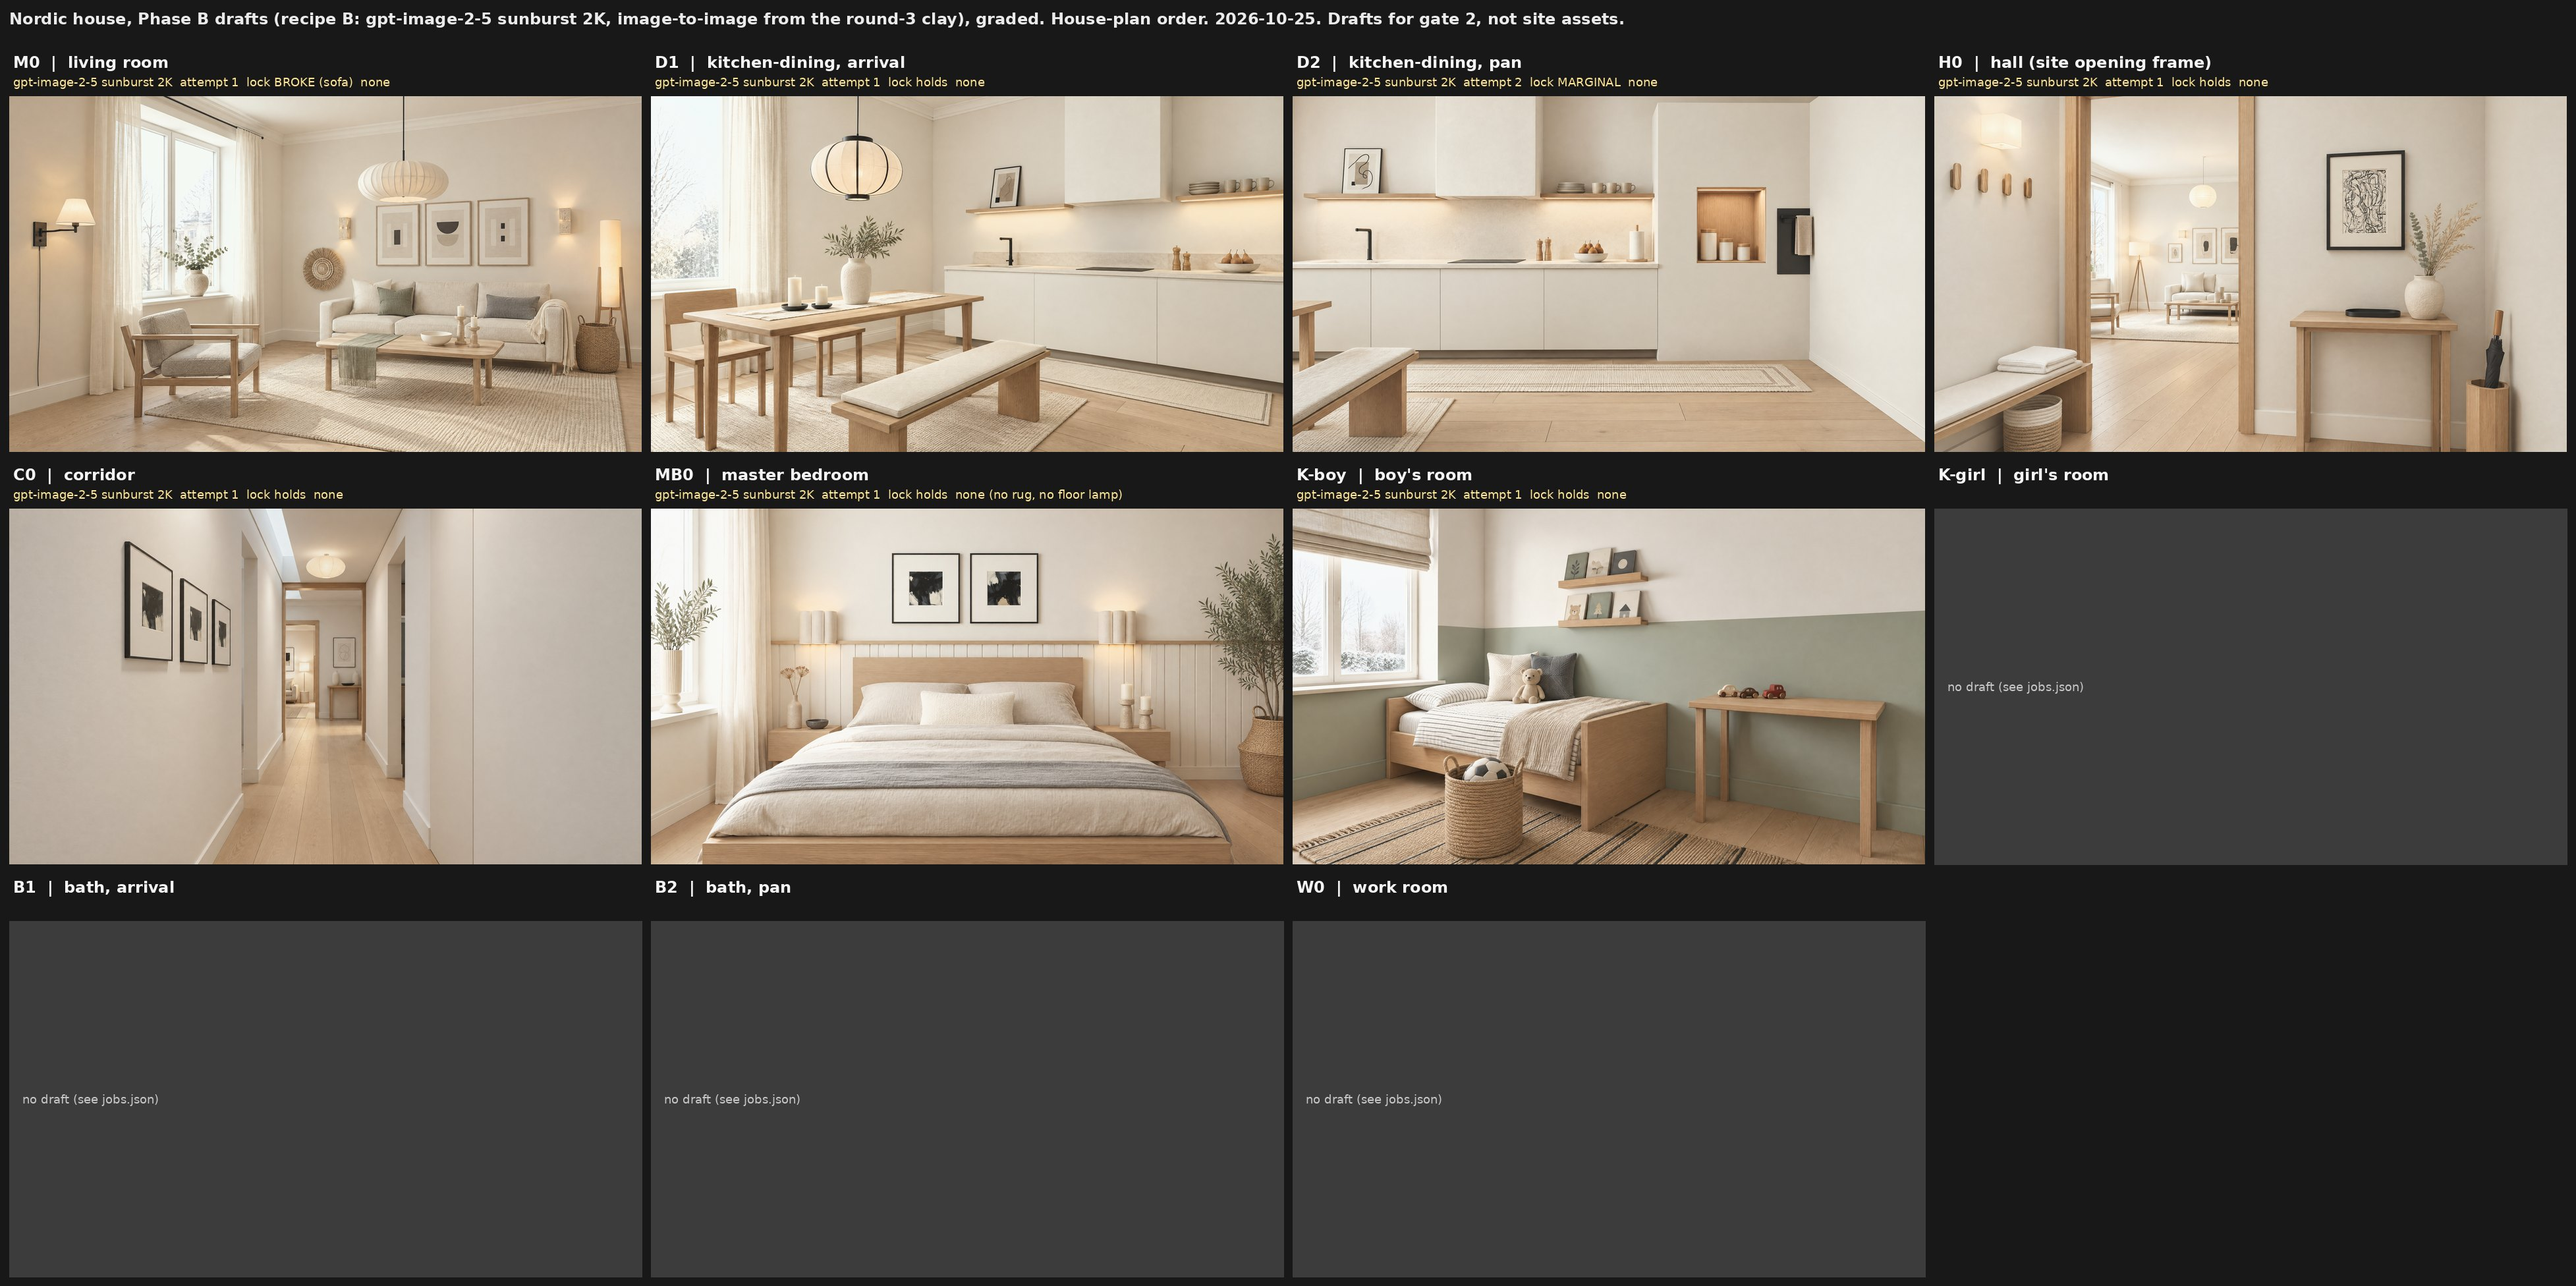
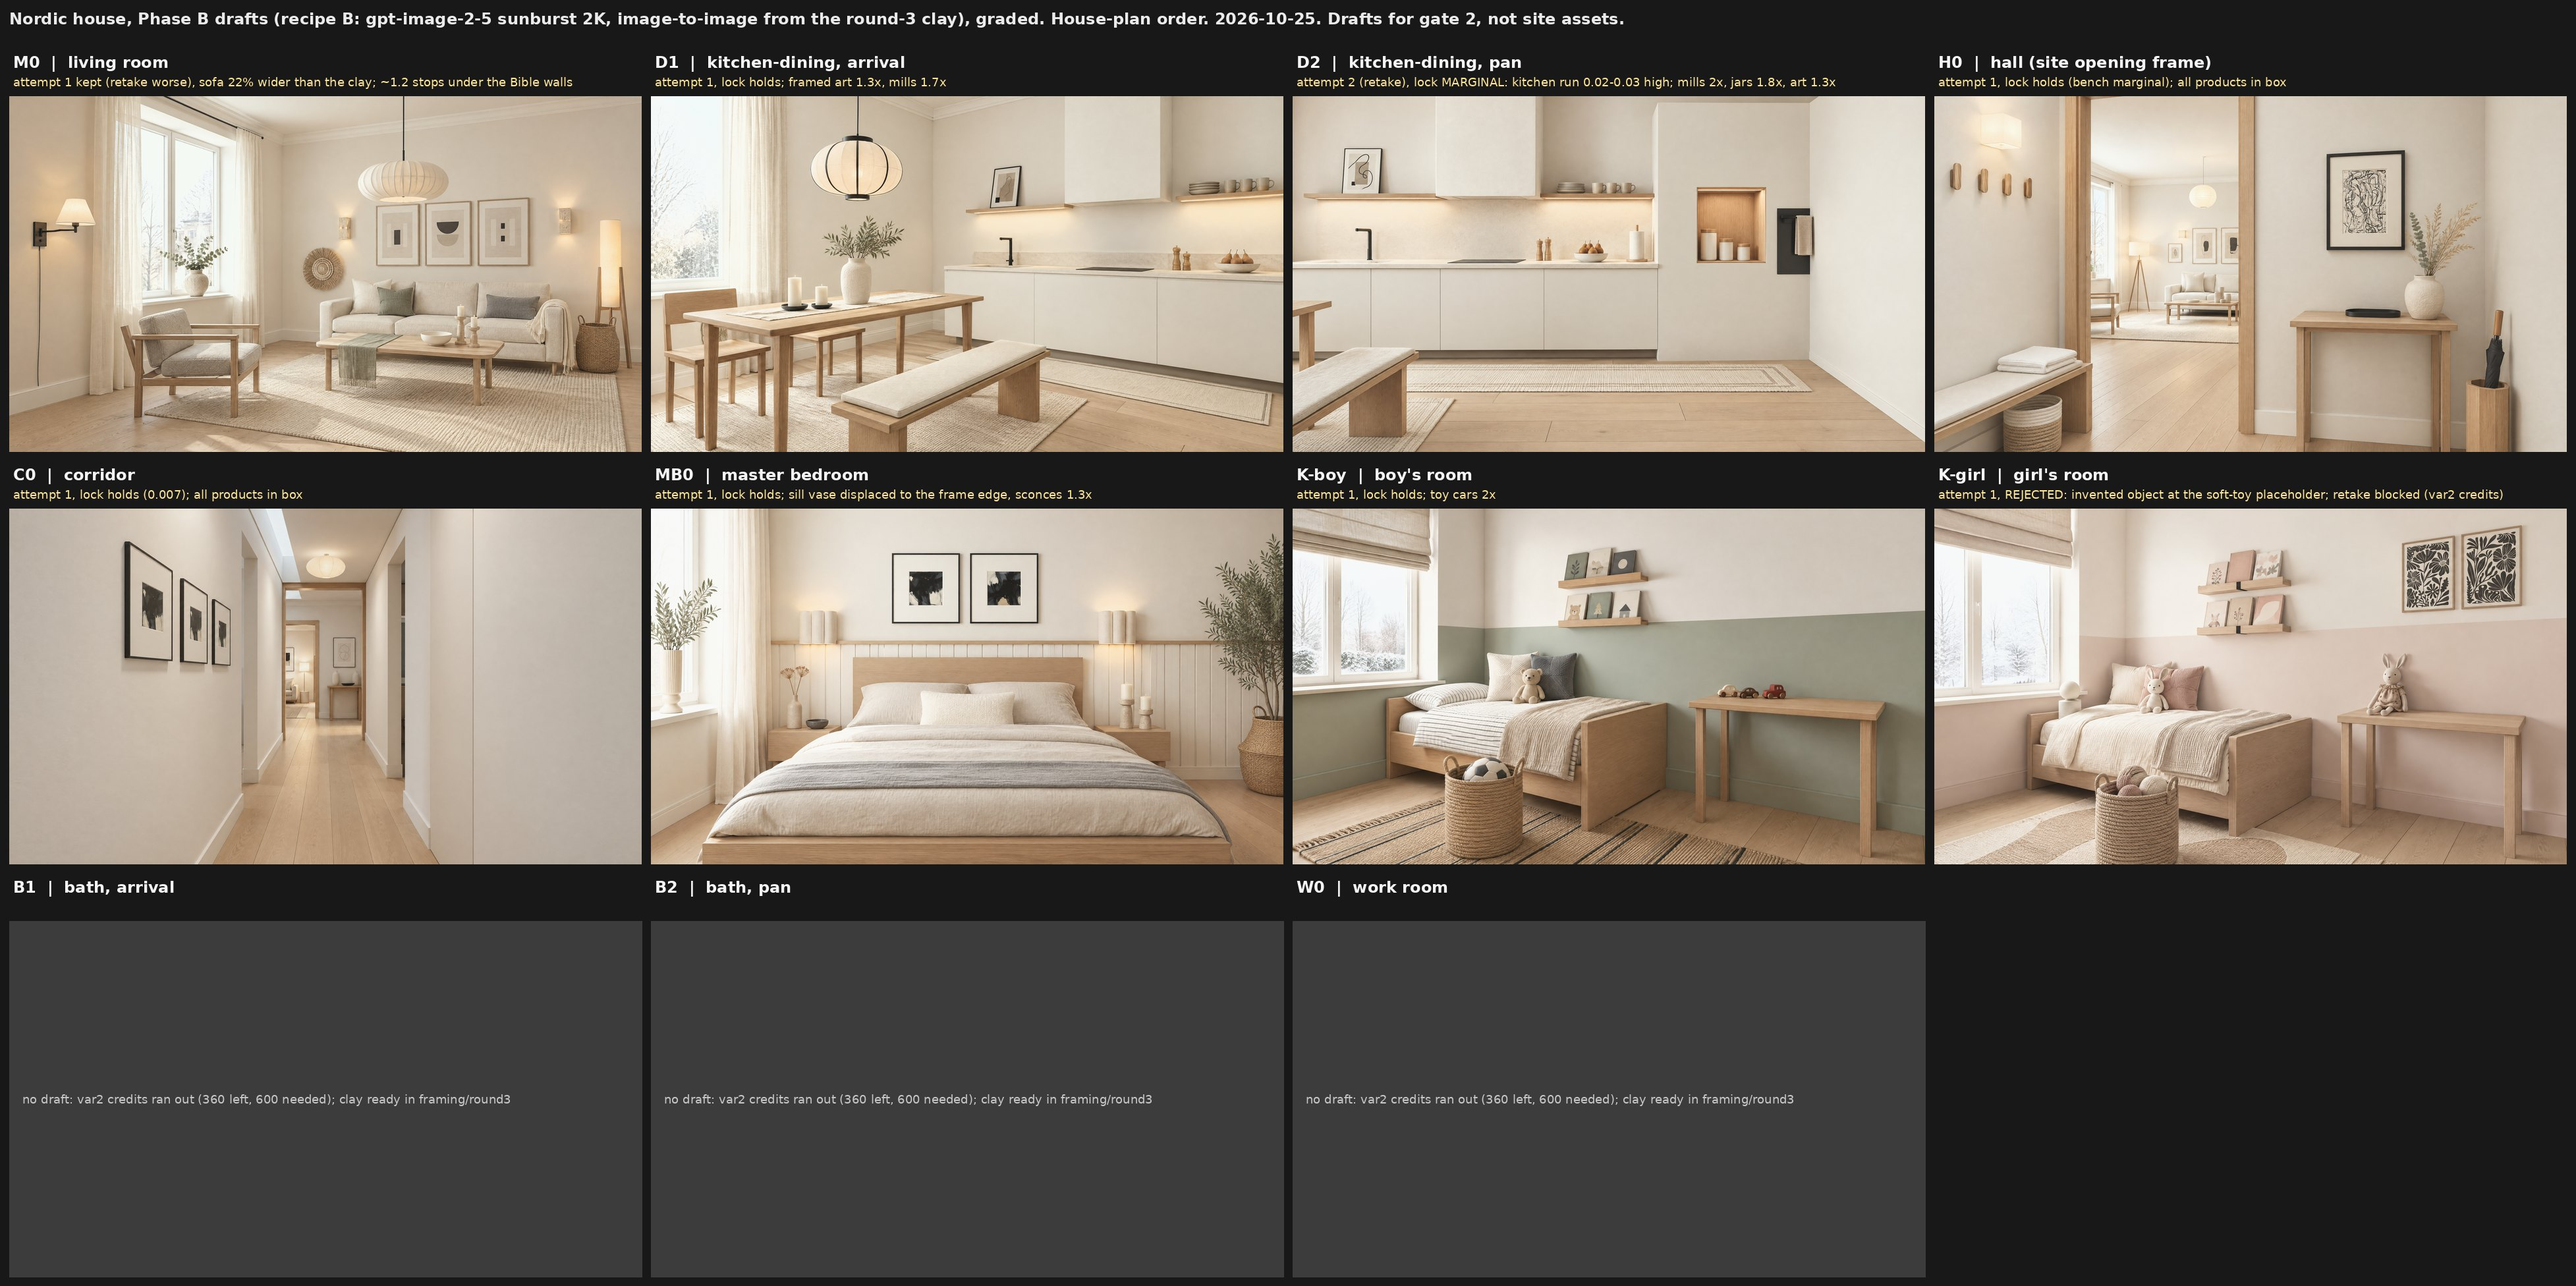
Phase B in progress: next completed drafts
Claude-Session: https://claude.ai/code/session_012un7iEDRha5J5s2Ea72wCe

diff --git a/assets/renders/house-nordic-2026-10-25/sheet.py b/assets/renders/house-nordic-2026-10-25/sheet.py
@@ -48,10 +48,11 @@ for k, (fid, room, label) in enumerate(ORDER):
         sheet.paste(im, (x + (TW - im.size[0]) // 2, y + LAB + (TH - im.size[1]) // 2))
         lk = j.get('lock', '?')
         lk = lk.get('visual', '?') if isinstance(lk, dict) else lk
-        sub = f"{j['model']} {j.get('quality') or ''} 2K  attempt {j['attempt']}  lock {lk}  {j.get('products', {}).get('invented', '') if isinstance(j.get('products'), dict) else ''}"
+        sub = j.get("sheet_label") or f"{j['model']} {j.get('quality') or ''} 2K  attempt {j['attempt']}  lock {lk}"
     else:
         dr.rectangle((x, y + LAB, x + TW, y + LAB + TH), fill=(60, 60, 60))
-        dr.text((x + 20, y + LAB + TH // 2 - 10), "no draft (see jobs.json)", fill=(200, 200, 200), font=small)
+        blocked = [b for b in jobs.get("jobs", []) if b["frame"] == fid]
+        dr.text((x + 20, y + LAB + TH // 2 - 10), "no draft: " + (blocked[-1].get("sheet_label") or "see jobs.json") if blocked else "no draft (see jobs.json)", fill=(200, 200, 200), font=small)
         sub = ""
     dr.text((x + 6, y + 6), f"{fid}  |  {label}", fill=(245, 245, 245), font=font)
     if sub:
